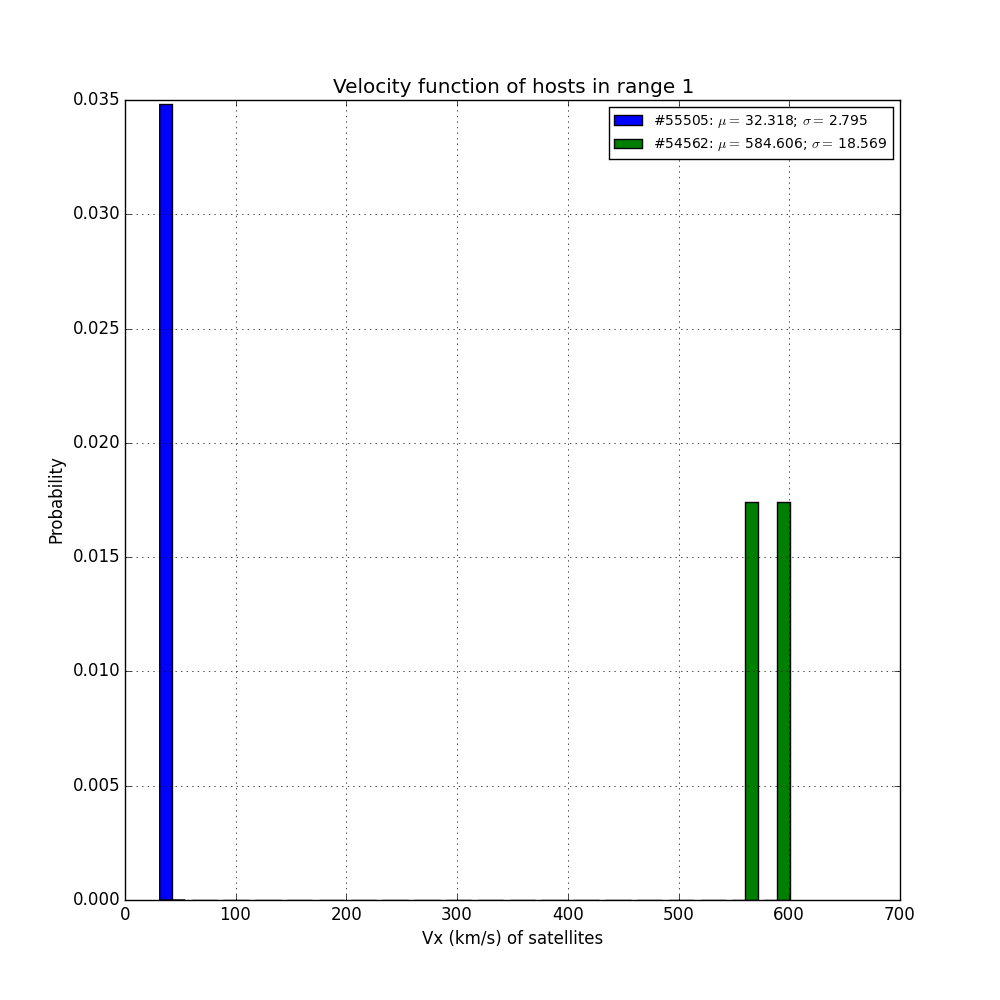
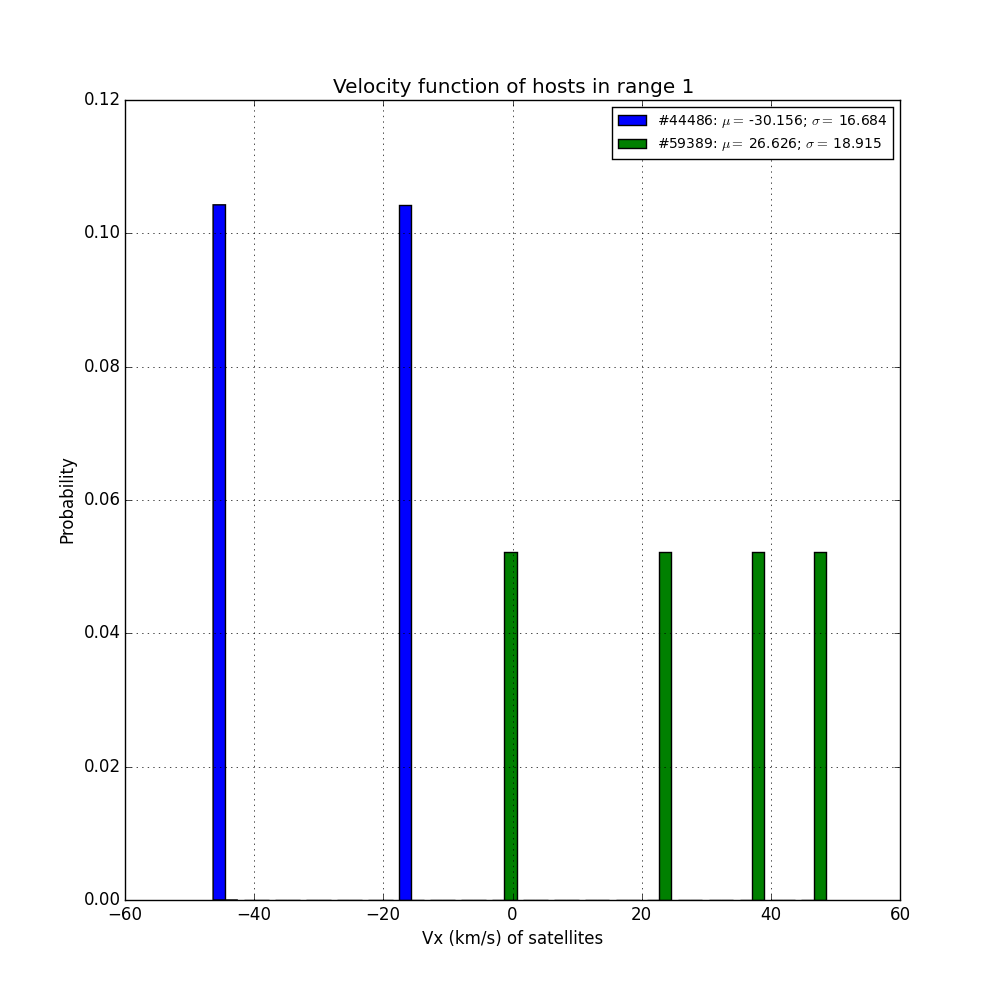
Changed satellites by range comparison

diff --git a/ILLUSTRIS/CREATE_SUBHALOS.py b/ILLUSTRIS/CREATE_SUBHALOS.py
@@ -33,7 +33,7 @@ CATALOG 	= il.groupcat.load(basePath, snapNum)
 SUBHALOS 	= CATALOG['subhalos']
 #------------------------------SUBHALOS-------------------------------#
 
-c.execute("CREATE TABLE Subhalos (SubhaloID int PRIMARY KEY,SubhaloGrNr int,SubhaloHalfmassRad float,SubhaloIDMostbound int,SubhaloLen int,SubhaloMass float, SubhaloMassInHalfRad float,SubhaloMassInMaxRad float,SubhaloMassInRad float, SubhaloParent int, SubhaloVelDisp float, SubhaloVmax float, SubhaloVmaxRad float)")
+c.execute("CREATE TABLE Subhalos (SubhaloID int PRIMARY KEY,SubhaloGrNr int,SubhaloHalfmassRad float,SubhaloIDMostbound int,SubhaloLen int,SubhaloMass float, SubhaloMassInHalfRad float,SubhaloMassInMaxRad float,SubhaloMassInRad float, SubhaloParent int, SubhaloVelDisp float, SubhaloVmax float, SubhaloVmaxRad float, StellarMass float)")
 c.execute("CREATE TABLE SubhaloCM (SubhaloID int, X float, Y float, Z float, FOREIGN KEY(SubhaloID) REFERENCES Subhalos(SubhaloID))")
 c.execute("CREATE TABLE SubhaloHalfmassRadType (SubhaloID int PRIMARY KEY, Type1 float, Type2 float, Type3 float, Type4 float, Type5 float, Type6 float, FOREIGN KEY(SubhaloID) REFERENCES Subhalos(SubhaloID))")
 c.execute("CREATE TABLE SubhaloLenType (SubhaloID int PRIMARY KEY, Type1 int, Type2 int, Type3 int, Type4 int, Type5 int, Type6 int, FOREIGN KEY(SubhaloID) REFERENCES Subhalos(SubhaloID))")
@@ -55,8 +55,8 @@ for i in range(0, SUBHALOS['count']):
 	if i % fraction == 0:
 		sys.stdout.write("#")
 		sys.stdout.flush()
-	SubhaloParams = (SubhaloID, int(SUBHALOS['SubhaloGrNr'][i]), float(SUBHALOS['SubhaloHalfmassRad'][i]), int(SUBHALOS['SubhaloIDMostbound'][i]), int(SUBHALOS['SubhaloLen'][i]), float(SUBHALOS['SubhaloMass'][i]*mass_constant), float(SUBHALOS['SubhaloMassInHalfRad'][i]*mass_constant), float(SUBHALOS['SubhaloMassInMaxRad'][i]*mass_constant), float(SUBHALOS['SubhaloMassInRad'][i]*mass_constant), float(SUBHALOS['SubhaloParent'][i]), float(SUBHALOS['SubhaloVelDisp'][i]), float(SUBHALOS['SubhaloVmax'][i]), float(SUBHALOS['SubhaloVmaxRad'][i]))
-	c.execute("INSERT INTO Subhalos VALUES (?, ?, ?, ?, ?, ?, ?, ?, ?, ?, ?, ?, ?)", SubhaloParams)
+	SubhaloParams = (SubhaloID, int(SUBHALOS['SubhaloGrNr'][i]), float(SUBHALOS['SubhaloHalfmassRad'][i]), int(SUBHALOS['SubhaloIDMostbound'][i]), int(SUBHALOS['SubhaloLen'][i]), float(SUBHALOS['SubhaloMass'][i]*mass_constant), float(SUBHALOS['SubhaloMassInHalfRad'][i]*mass_constant), float(SUBHALOS['SubhaloMassInMaxRad'][i]*mass_constant), float(SUBHALOS['SubhaloMassInRad'][i]*mass_constant), float(SUBHALOS['SubhaloParent'][i]), float(SUBHALOS['SubhaloVelDisp'][i]), float(SUBHALOS['SubhaloVmax'][i]), float(SUBHALOS['SubhaloVmaxRad'][i]), StellarMass(float(SUBHALOS['SubhaloMass'][i])*mass_constant))
+	c.execute("INSERT INTO Subhalos VALUES (?, ?, ?, ?, ?, ?, ?, ?, ?, ?, ?, ?, ?, ?)", SubhaloParams)
 
 	SubhaloCMParams = (SubhaloID, float(SUBHALOS['SubhaloCM'][i][0]),float(SUBHALOS['SubhaloCM'][i][1]),float(SUBHALOS['SubhaloCM'][i][2]))
 	c.execute("INSERT INTO SubhaloCM VALUES(?, ?, ?, ?)", SubhaloCMParams)

diff --git a/ILLUSTRIS/velocity_functions.py b/ILLUSTRIS/velocity_functions.py
@@ -1,3 +1,4 @@
+
 import sqlite3
 import os
 import sys
@@ -18,42 +19,39 @@ c = conn.cursor()
 n_bins = 20
 
 for i in range(1,4):
-	c.execute("SELECT GroupID FROM Range{index}".format(index = i))
-	rows = c.fetchall()
-	IDs = []
-	for row in rows:
-		IDs.append(row[0])
+	c.execute("SELECT Groups.GroupID, Groups.GroupNsubs, Groups.GroupFirstSub FROM Range{index} INNER JOIN Groups WHERE Range{index}.GroupID = Groups.GroupID".format(index = i))
+	halos = c.fetchall()
+	# halos[i][0] = i-th halo GroupID
+	# halos[i][1] = i-th halo GroupNSubs
+	# halos[i][2] = i-th halo GroupFirstSub
 
 	# Finding random hosts
 	random_hosts = []
 	for j in range(0,2):
-		host = random.choice(IDs)
-		while host in random_hosts:
-			host = random.choice(IDs)
-		random_hosts.append(host)
-	velocities = []
-	for hostID in random_hosts:
-		satellite_velocities = []
-		satelliteIDs = []
-		c.execute("SELECT SubhaloID from Satellites WHERE GroupID = ?", (hostID,))
-		rows = c.fetchall()
-		for row in rows:
-			satelliteIDs.append(row[0])
-		for satellite in satelliteIDs:
-			c.execute("SELECT X FROM SubhaloVel WHERE SubhaloID = ?", (satellite,))
-			Vx = c.fetchall()[0][0]
-			satellite_velocities.append(Vx)
-		velocities.append(satellite_velocities)
-		print len(satellite_velocities)
+		ind = random.choice(len(halos))
+		while halos[ind] in random_hosts:
+			ind = random.choice(len(halos))
+		random_hosts.append(halos[ind])
+
+	satellite_velocities = []
+	for host in random_hosts:
+		satellites = range(host[2], host[2]+host[1])
+		velocities = []
+		# satellites = list of indices in the Subhalo table
+		for satID in satellites:
+			c.execute("SELECT X FROM SubhaloVel WHERE SubhaloID = ?",(satID,))
+			VelX = c.fetchall()[0][0]
+			velocities.append(VelX)
+		satellite_velocities.append(velocities)
 		
-	# velocities now is a list containing the satellite velocities of each host {[host1sat1velocity, host1sat2velocity...][host2sat1velocity, host2sat2velocity...]}
+	# satellite_velocities is a list containing the satellite velocities of each host {[host1sat1velocity, host1sat2velocity...][host2sat1velocity, host2sat2velocity...]}
 
 	fig, ax = plt.subplots()
 	labels = []
 	for j in range(0,2):
-		labels.append("#{HostID}: $\mu =$ {mean}; $\sigma =$ {sigma}".format(HostID = random_hosts[j], mean = '%.3f'%mean(velocities[j]), sigma = '%.3f'%std(velocities[j])))
+		labels.append("#{HostID}: $\mu =$ {mean}; $\sigma =$ {sigma}".format(HostID = random_hosts[j][0], mean = '%.3f'%mean(satellite_velocities[j]), sigma = '%.3f'%std(satellite_velocities[j])))
 	
-	n, bins, patches = ax.hist(velocities, n_bins, normed = 1, histtype = 'bar', label = labels)
+	n, bins, patches = ax.hist(satellite_velocities, n_bins, normed = 1, histtype = 'bar', label = labels)
 	#y = mlab.normpdf(bins, mu, sigma)
 	#ax.plot(bins, y, '--')
 	ax.set_xlabel('Vx (km/s) of satellites')

diff --git a/ILLUSTRIS/velocity_function_mass_cut.py b/ILLUSTRIS/velocity_function_mass_cut.py
@@ -1,0 +1,59 @@
+import sqlite3
+import os
+import sys
+import numpy
+import random
+from numpy import * 
+from numpy import linalg
+import scipy
+from scipy.optimize import brentq
+import pylab as pl
+import matplotlib.pyplot as plt
+import matplotlib.mlab as mlab
+import numpy as np
+np.seterr(divide = 'ignore', invalid = 'ignore')
+
+conn = sqlite3.connect('halos_and_subhalos.db')
+c = conn.cursor()
+# TO-DO Add check for arguments
+cutoff = 1.e5
+
+for i in range(1,4):
+	little = []
+	big = []
+	c.execute("SELECT Groups.GroupID, Groups.GroupNsubs, Groups.GroupFirstSub FROM Groups INNER JOIN Range{index} WHERE Range{index}.GroupID = Groups.GroupID".format(index = i))
+	Halos = c.fetchall()
+	RandomHosts = []
+	for j in range(0,2):
+		ind = (random.choice(len(Halos)))
+		while Halos[ind] in RandomHosts:
+			ind = random.choice(len(Halos))
+		RandomHosts.append(Halos[ind])
+	for Halo in RandomHosts:
+		Satellites = range(Halo[2], Halo[2]+Halo[1])
+		for SatID in Satellites:
+
+			c.execute("SELECT X FROM SubhaloVel WHERE SubhaloID = ?", (SatID,))
+			VelX = c.fetchall()[0][0]
+			c.execute("SELECT StellarMass FROM Subhalos WHERE SubhaloID = ?", (SatID,))
+			Mass = c.fetchall()[0][0]
+
+			if Mass < cutoff:
+				little.append(VelX)
+			else:
+				big.append(VelX)
+	fig, ax = plt.subplots()
+	n_bins = 20
+	n, bins, patches = ax.hist([little, big], n_bins, normed = 1, histtype = 'stepfilled', stacked = True, label = ["Mstar < {cutoffmass} Msun; $\mu =$ {littlemean}; $\sigma =$ {littlestd}".format(cutoffmass = '%.2e' % cutoff, littlemean = '%.3f'% mean(little), littlestd =  '%.3f'% std(little)), "Mstar > {cutoffmass} Msun; $\mu =$ {bigmean}; $\sigma =$ {bigstd}".format(cutoffmass = '%.2e' % cutoff, bigmean =  '%.3f'%mean(big), bigstd =  '%.3f'%std(big))])
+	ax.set_xlabel('Vx (km/s) of satellites')
+	ax.set_ylabel('Probability')
+	ax.legend(prop = {'size': 10})
+	ax.set_title("Range {index}: Comparison of velocity functions of satellites of new and little hosts (cutoff = {cutoffmass} Msun)".format(index = i, cutoffmass = '%.2e'%cutoff))
+	plt.grid(True)
+	fig.set_size_inches(10,10)		
+	plt.savefig( "Range{index}/range{index}_velocity_function_cut_by_mass.png".format(index = i))
+	plt.close()
+
+conn.commit()
+conn.close()
+			

diff --git a/ILLUSTRIS/velocity_functions_by_range.py b/ILLUSTRIS/velocity_functions_by_range.py
@@ -1,0 +1,59 @@
+import sqlite3
+import os
+import sys
+import numpy
+import random
+from numpy import * 
+from numpy import linalg
+import scipy
+from scipy.optimize import brentq
+import pylab as pl
+import matplotlib.pyplot as plt
+import matplotlib.mlab as mlab
+import numpy as np
+np.seterr(divide = 'ignore', invalid = 'ignore')
+
+conn = sqlite3.connect('halos_and_subhalos.db')
+c = conn.cursor()
+
+velocities = [[],[],[]]
+labels = []
+n_bins = 20
+
+for i in range(1,4):
+	print "range " + `i`
+	c.execute("SELECT Groups.GroupID, Groups.GroupNsubs, Groups.GroupFirstSub FROM Range{index} INNER JOIN Groups WHERE Range{index}.GroupID = Groups.GroupID".format(index = i))
+	Halos = c.fetchall()
+	print "fetching halos"
+
+	fraction = 1000
+	barwidth = (len(Halos)/fraction)+1
+	sys.stdout.write("Fetching halos...[%s]"%(" " * barwidth))
+	sys.stdout.flush()
+	sys.stdout.write("\b" * (barwidth+1))
+
+	for j in range(len(Halos)):
+		if j%fraction==0:
+			sys.stdout.write("#")
+			sys.stdout.flush()
+		Halo = Halos[j]
+		Satellites = range(Halo[2], Halo[1]+Halo[2])
+		c.execute("SELECT X FROM GroupVel WHERE GroupID = ?", (Halo[0],))
+		HostVelX = c.fetchall()[0][0]
+		for SatID in Satellites:
+			c.execute("SELECT X FROM SubhaloVel WHERE SubhaloID = ?", (SatID,))
+			SatVelX = c.fetchall()[0][0]
+			velocities[i-1].append(SatVelX-HostVelX)
+	labels.append("Range {index}: $\mu =$ {mean}; $\sigma =$ {std}".format(index = i, mean = '%.3f'% mean(velocities[i-1]), std = '%.3f'% std(velocities[i-1])))
+fig, ax = plt.subplots()
+n, bins, patches = ax.hist(velocities, n_bins, normed = 1, histtype = 'stepfilled', stacked = True, label = labels)
+ax.set_xlabel('Vx (km/s) of satellites')
+ax.set_ylabel('Probability')
+plt.xlim([-200,200])
+ax.legend(prop = {'size': 10})
+ax.set_title('Velocity function of satellites in different stellar mass ranges')
+plt.grid(True)
+fig.set_size_inches(10,10)	
+plt.savefig("satellite_velocity_function_by_range.png")
+plt.close()
+

diff --git a/ILLUSTRIS/find_observational_satellites.py b/ILLUSTRIS/find_observational_satellites.py
@@ -1,0 +1,43 @@
+import sqlite3
+import numpy
+
+conn = sqlite3.connect('halos_and_subhalos.db')
+
+c = conn.cursor()
+
+# Newton's constant G in km^2 kpc/Msun*s^2 units
+G = 6.67e-11 * (1.e-3)**2. * (2.e30)/(3.086e19) 
+
+for i in range(1,4):
+	c.execute("SELECT GroupPos.GroupID, GroupPos.X, GroupPos.Y, GroupPos.Z FROM GroupPos INNER JOIN Range{index} WHERE GroupPos.GroupID = Range{index}.GroupID".format(index = i))
+	groups = c.fetchall()
+	# groups[i][0] = group ID
+	# groups[i][1] = group X
+	# groups[i][2] = group Y
+	# groups[i][3] = group Z
+	for group in groups:
+		c.execute("CREATE TABLE {groupid}_satellites(SubhaloID)".format(groupid = group[0]))
+		c.execute("SELECT SubhaloPos.SubhaloID, SubhaloPos.X, SubhaloPos.Y, SubhaloPos.Z FROM SubhaloPos")
+		subhalos = c.fetchall()
+		c.execute("SELECT Group_R_Crit200 FROM Groups WHERE GroupID = ?",(group[0],))
+		Rvir = c.fetchall()[0][0]
+		for subhalo in subhalos:
+			if ((group[2] - subhalo[2])**2 + (group[3] - subhalo[3])**2)**(0.5) < Rvir:
+				c.execute("SELECT StellarMass FROM Subhalos WHERE SubhaloID = ?",(subhalo[0],))
+				SatStellarMass = c.fetchall()[0][0]
+				c.execute("SELECT StellarMass FROM Groups WHERE GroupID = ?", (group[0],))
+				HostStellarMass = c.fetchall()[0][0]
+				if SatStellarMass < HostStellarMass:
+					c.execute("SELECT X FROM SubhaloPos WHERE SubhaloID = ?",(subhalo[0],))
+					SatVelX = c.fetchall()[0][0]
+					c.execute("SELECT X FROM GroupPos WHERE GroupID = ?", (group[0],))
+					HostVelX = c.fetchall()[0][0]	
+					c.execute("SELECT Group_M_Crit200, Group_R_Crit200gt FROM Groups WHERE GroupID = ?", (group[0],))
+					GroupMvir = c.fetchall[0]
+					GroupRvir = c.fetchall[0]
+					if numpy.absolute(HostVelX - SatVelX) < 3*(G*GroupMvir/GroupRvir)**(0.5):
+						c.execute("INSERT INTO {groupid}_satellites VALUES(?)".format(groupid = group[0]),(subhalo[0],))
+						
+						
+			
+	

diff --git a/ILLUSTRIS/DROP_TABLES.py b/ILLUSTRIS/DROP_TABLES.py
@@ -1,14 +1,14 @@
 import sqlite3
 conn = sqlite3.connect('halos_and_subhalos.db')
 c = conn.cursor()
-
+"""
 # DROP GROUP TABLES
 c.execute("DROP TABLE Groups")
 c.execute("DROP TABLE GroupLenType")
 c.execute("DROP TABLE GroupMassType")
 c.execute("DROP TABLE GroupPos")
 c.execute("DROP TABLE GroupVel")
-
+"""
 # DROP SUBHALO TABLES
 c.execute("DROP TABLE Subhalos")
 c.execute("DROP TABLE SubhaloCM")
@@ -21,11 +21,11 @@ c.execute("DROP TABLE SubhaloMassType")
 c.execute("DROP TABLE SubhaloPos")
 c.execute("DROP TABLE SubhaloSpin")
 c.execute("DROP TABLE SubhaloVel")
-
+"""
 # DROP RANGE TABLES
 c.execute("DROP TABLE Range1")
 c.execute("DROP TABLE Range2")
 c.execute("DROP TABLE Range3")
 
 
-
+"""
